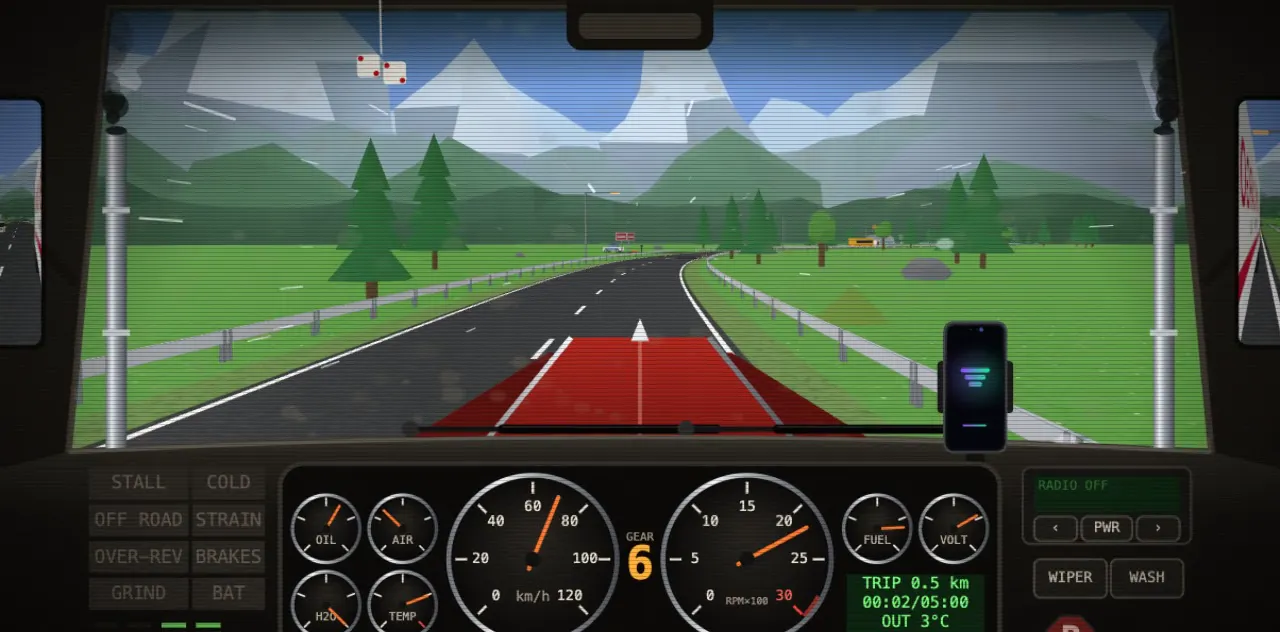
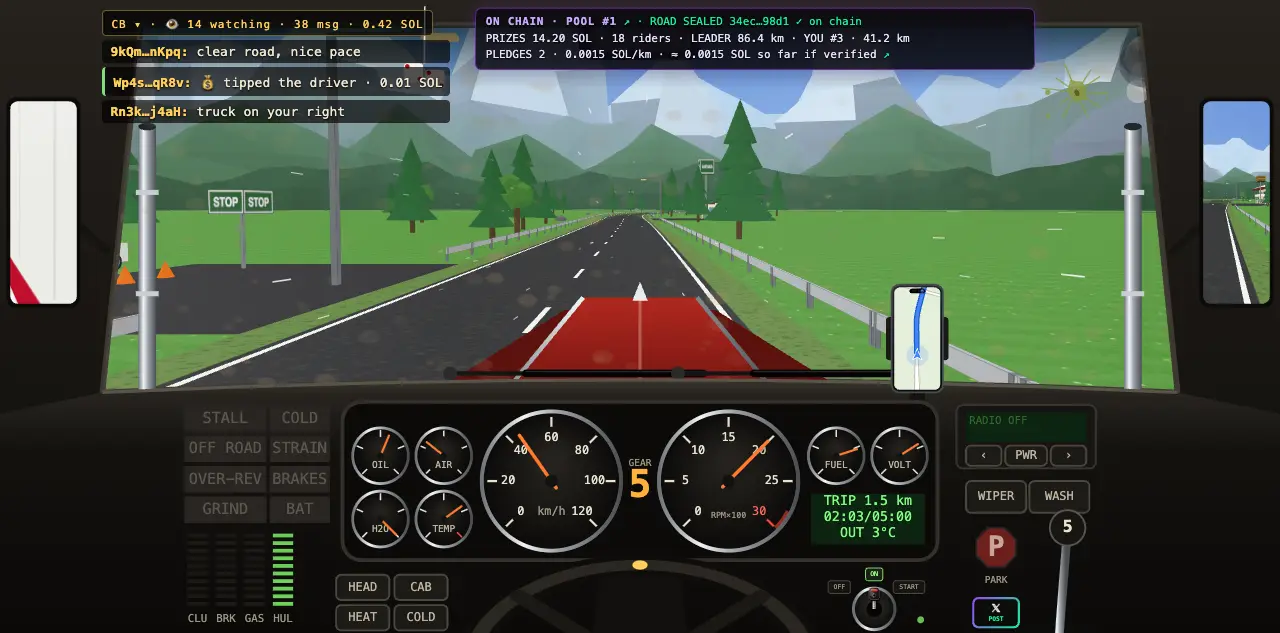
Landing: hero stills are the current cab, with the CB and the on-chain strip.
The README still showed the old first-gear desert shot. day, night, the poster and og.jpg are the current cab. The capture mocks a ticket ride on pool 1 so the seal reads on chain.

diff --git a/docs/agents/landing.md b/docs/agents/landing.md
@@ -12,7 +12,7 @@ A Vite 7 project, vanilla JS: `npm run landing:dev|build|lint|test` (all in `npm
 ## Detail
 
 The `/` page: a Vite 7 project (`index.html`, `src/`, `public/media/`, `test/`, `tools/`), 7 chapters (ride · loop · economy · roadmap trip-sheet · go-to-market load board · about · faq) with a live ticker, pool / live / next-up / top-10 boards from the PUBLIC API (no session needed to look) and a four-phase daytime collage.
-- **Commands** (root): `npm run landing:dev` (:5173, proxies /api + the other pages to Nest) · `landing:build` → `landing/dist` · `landing:lint` · `landing:test`; all of them are part of `npm run check`. In `landing/`: `npm test`, `npm run media` (re-captures the card posters + sky shots from the game; needs the game served, e.g. `BASE=http://localhost:8765`).
+- **Commands** (root): `npm run landing:dev` (:5173, proxies /api + the other pages to Nest) · `landing:build` → `landing/dist` · `landing:lint` · `landing:test`; all of them are part of `npm run check`. In `landing/`: `npm test`, `npm run media` (re-captures the card posters, the sky shots and the hero cab from the game; `ONLY=hero` is just the three hero frames, with the CB and the on-chain strip mocked; needs the game served, e.g. `BASE=http://localhost:8765`).
 - **Serving**: Nest serves `landing/dist` at `/` in front of `client/` (`LANDING_DIR`, default `../landing/dist`; no build = `/` is the placeholder `client/index.html` + a warning). Hashed `/assets` are `immutable`, `/media` 1 day, pages `no-cache`; text is gzipped (`server/src/app/app.module.ts` `siteRoots`, `infrastructure/http/static-cache.ts`, `compression` in `configure-app.ts`). `deploy/Dockerfile` builds it in its own stage and its tests gate the image.
 - **Sign-in + session** (`src/main.js`, uses `client/site/wallet.js`): CONNECT → the wallet (found through the Wallet Standard events, `client/site/wallet-standard.js`; legacy injected globals as a fallback; several → the picker `site/wallet-picker.js`, none → install links on a desktop, Phantom / Solflare "open in wallet" browse links on a phone) signs the server's challenge (one `solana:signIn` prompt, else connect + signMessage; a rejection stops there) → the backend verifies the ed25519 signature and sets the httpOnly `fc_session` cookie (Domain = the apex when `COOKIE_DOMAIN` is set, so landing, lobby, game and API share it) → redirect to `${SITE_BASE}/lobby.html`. Back on `/`, `GET /api/me` shows the wallet chip, "Signed in as …" and turns the CTA into OPEN THE LOBBY. The landing never sees the token. All API calls go through `wallet.js` (`API_BASE`); links to the game use `GAME_BASE` (`ride.<apex>`); the page never hard-codes `/api/…` or `/play.html` in JS. **`node landing/tools/e2e-wallet.mjs`** drives it in real Chrome with a fake Phantom (WebCrypto ed25519; no wallet / rejected / forged signature / success / session recognised / redirect) and fake Wallet Standard wallets (one-click signIn, two wallets → picker, rejected signIn → no second prompt, phone with none → browse links), also against split hosts (see the header of the script: `*.localhost` + `COOKIE_DOMAIN` + `RESOLVE`).
 - **Whitepaper** (`whitepaper.html` + `src/whitepaper.{js,css}`, the SECOND page of the same Vite build – `vite.config.js` `build.rollupOptions.input`; production host `whitepaper.<apex>`, locally `/whitepaper.html`): a long read in the landing's cab style – contents rail, abstract + status table, thesis, 02 how to drive (inputs, indicators, lamps, advice, routes), 03 rides + rules of participation, 04 rewards (every reward with a state: LIVE / BUILT / PLANNED; prize figures are proposed defaults, no payout amounts), 05 the escrow program (the one public explainer: money flow, the state machine, the clock timeline, who-can-do-what, guarantees, what it does NOT promise; the landing and the lobby link to `whitepaper.<apex>#onchain`), 06 telemetry + validation, 07 streaming, 08 risks + roadmap + disclaimer (no token, devnet). **No innerHTML. The only request is web vitals** (`reportWebVitals` in `whitepaper.js` → `POST /api/telemetry` on `API_BASE`); the host still 404s `/api/`, and derived `CORS_ORIGINS` includes `https://whitepaper.<apex>`.; its few cross-host links carry `data-to="site|game|storybook"` + `data-path` and `whitepaper.js` resolves them through `hosts.js` (the HTML keeps a same-origin fallback). Copy it from the explainers in `docs/` (current), NOT from the landing's About / Roadmap text. **Numbers are quoted from code and `landing/test/whitepaper.test.js` fails when they drift** (`ride-tier.ts`, `verdict-rules.ts`, `live-rules.ts`, the program IDL's 14 instructions / 12 events / 24 errors, the prod LIVE_* flags): when you change one of those, change the page in the same commit. The status table says the escrow program is on devnet, not audited, with payouts off – update that table and section 05 when that changes. nginx: `deploy/nginx/whitepaper.conf.template` (`/` → `/whitepaper.html`, `/api/` 404); the smoke test looks for the marker `FREIGHT CHAIN · WHITEPAPER`. **Chapter 02's dash cards** (`ol.path` = the nine-step first minute with arrows, two `.cards3` grids = controls on demand + indicators): each `.card3d[data-live]` is drawn by the game's own cockpit code (`dash-live.js`, lazy, `lazy: true` = a card draws once it is near the viewport; no poster images) from `src/wp-scenes.js` (pure: `crop`, `tick(t, g)`, optional `t0` first-frame second, `mark(t)` amber outline, `fit`); `test/wp-scenes.test.js` pins card ⇄ scene, the step order, crops and purity. A new card = markup + a scene; the HTML is close to its 33 kB gz budget, so keep card text short and trim before adding. Budget: CSS of both pages ≤ 14 kB gz, the page's HTML ≤ 33 kB gz (raised from 24 on Oct 9 for the anti-cheat chapter, to 27 on Oct 10 for the free levels / forks / phone map, to 31 on Oct 12 for the achievements chapter, to 33 for the 31 badge catalogue with descriptions and art).

diff --git a/README.md b/README.md
@@ -4,7 +4,7 @@ A truck game in the browser. You sit in the cab and drive. The road does not end
 
 Paid entries are SOL on Solana devnet. The program holds the money. There is no token, and this build is not mainnet.
 
-<img src="landing/public/media/day.webp" alt="Freight Chain cab on a straight desert highway, first gear, trip computer at 0 km" width="780">
+<img src="landing/public/media/day.webp" alt="Freight Chain cab in sixth gear on a desert highway, live CB up and the on-chain pool strip showing the road seal" width="780">
 
 The live site is [freightchain.fun](https://freightchain.fun). The program in this repo is [`8No42h2QXb9opgp3pJfNXL2o77o288SsF8o7CwJGCA1p`](https://explorer.solana.com/address/8No42h2QXb9opgp3pJfNXL2o77o288SsF8o7CwJGCA1p?cluster=devnet) on devnet (v3, upgraded in place on 12 Oct 2026). Its config account is [`9zRUyontAnwj65WHpEazpmW1eyHb8oYfPDvxcpMrSw7F`](https://explorer.solana.com/address/9zRUyontAnwj65WHpEazpmW1eyHb8oYfPDvxcpMrSw7F?cluster=devnet), 146 bytes, read from the public devnet RPC on 13 Oct 2026. An older program, `9e7phdJz…BSvx`, is still on devnet with its pools finished. The site does not sell into it.
 
